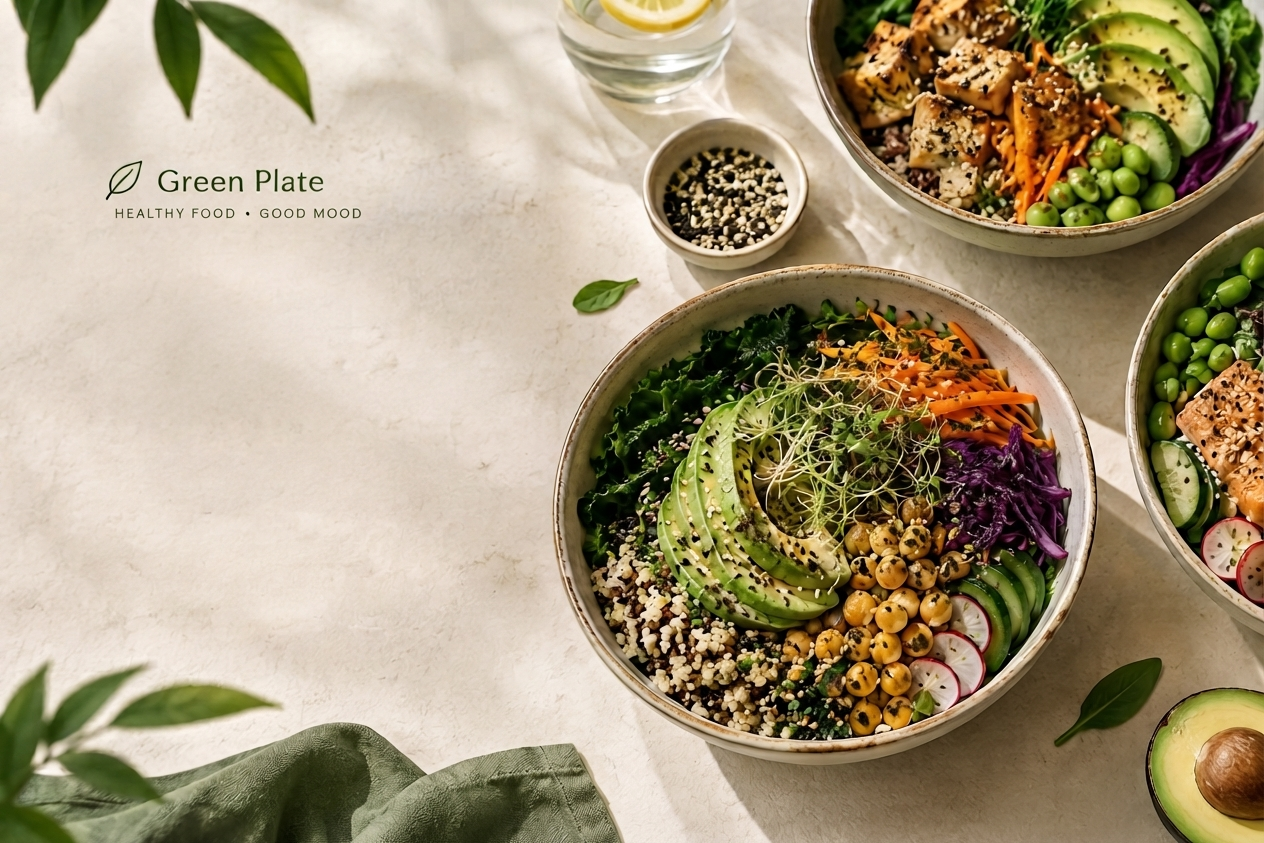
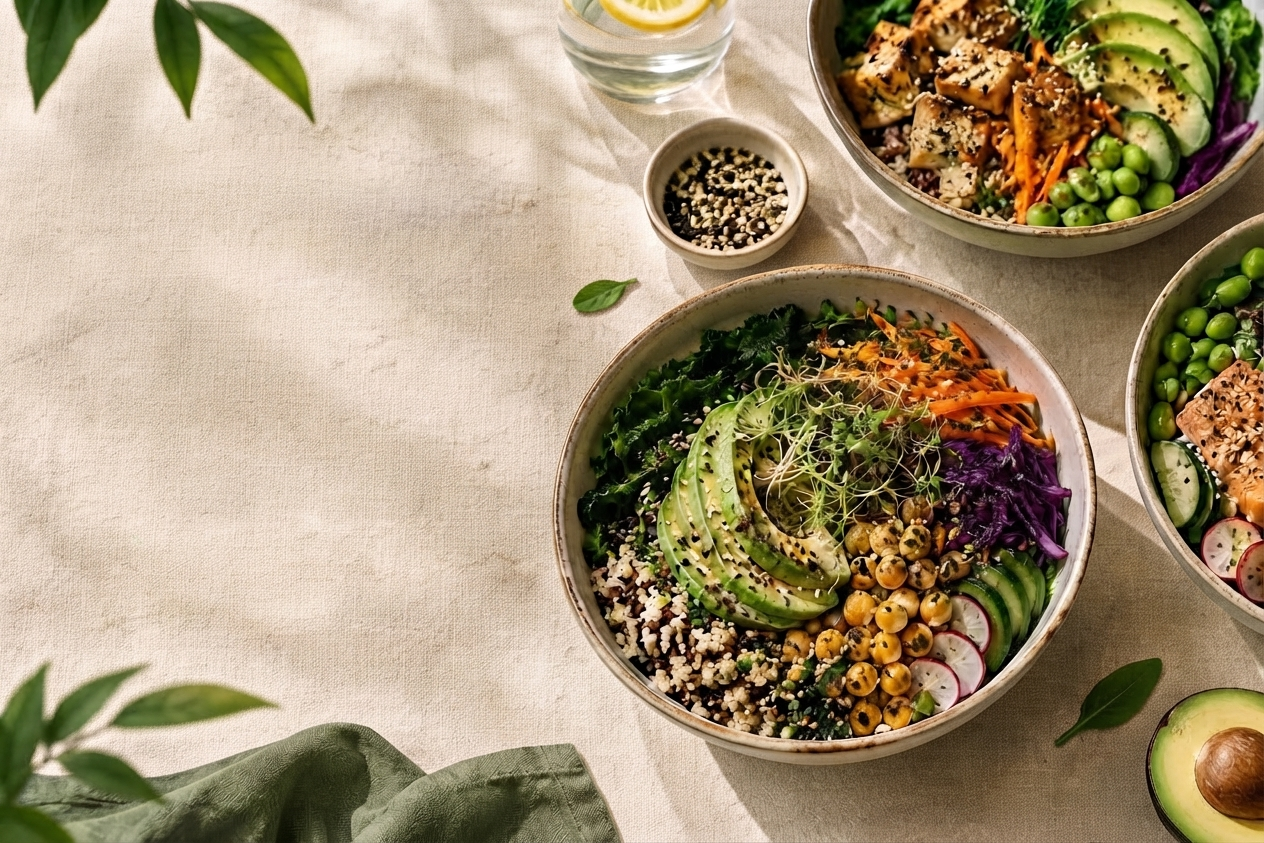
fix: hero section

diff --git a/style.css b/style.css
@@ -322,6 +322,15 @@ header {
   line-height: 1.6;
 }
 
+.hero-text .button_menu {
+  align-self: flex-start;
+  margin-top: 8px;
+}
+
+.hero-br {
+  display: none;
+}
+
 .first {
   position: relative;
   z-index: 0;
@@ -509,6 +518,33 @@ header {
   padding: 72px 0;
 }
 
+.menu_cats {
+  display: flex;
+  justify-content: center;
+  flex-wrap: wrap;
+  gap: 12px;
+  margin-bottom: 36px;
+}
+
+.menu_cat {
+  min-width: 120px;
+  height: 42px;
+  padding: 0 20px;
+  border: none;
+  border-radius: var(--radius);
+  background: var(--mint);
+  color: var(--green);
+  font-weight: 700;
+  font-size: 0.875rem;
+  letter-spacing: 0.06em;
+  cursor: default;
+}
+
+.menu_cat.is-active {
+  background: var(--green);
+  color: var(--mint);
+}
+
 .pagination {
   display: flex;
   align-items: center;
@@ -543,6 +579,11 @@ header {
 
 .pagination_icon--left {
   transform: rotate(180deg);
+}
+
+.pagination--menu {
+  justify-content: center;
+  margin-top: 36px;
 }
 
 .menu {
@@ -936,6 +977,10 @@ header {
     justify-content: space-between;
   }
 
+  .pagination--menu {
+    justify-content: center;
+  }
+
   .pagination .menu {
     flex: 1 1 100%;
     order: -1;
@@ -948,7 +993,7 @@ header {
   }
 
   .hero-container {
-    height: 380px;
+    height: 440px;
     padding: 20px;
   }
 
@@ -959,6 +1004,14 @@ header {
   .hero-text {
     left: 40px;
     max-width: min(420px, calc(100% - 72px));
+  }
+
+  .hero-br {
+    display: block;
+  }
+
+  .hero-text-second {
+    display: none;
   }
 
   .first_container,

diff --git a/Menu.html b/Menu.html
@@ -57,6 +57,11 @@
         <div class="container">
             <h2 class="section_title">OUR MENU</h2>
             <p class="section_subtitle light">Healthy, fresh, and fully transparent —<br>hover for calories.</p>
+            <div class="menu_cats">
+                <button class="menu_cat is-active" type="button">Vegan</button>
+                <button class="menu_cat" type="button">Seafood</button>
+                <button class="menu_cat" type="button">Meat</button>
+            </div>
             <div class="menu">
                 <article class="menu_card">
                     <div class="menu_visual">
@@ -252,6 +257,14 @@
                     </div>
                 </article>
             </div>
+            <div class="pagination pagination--menu">
+                <button class="pagination_btn pagination_prev" type="button" disabled aria-label="Previous">
+                    <img src="img/button-icon-dark.svg" alt="" class="pagination_icon pagination_icon--left">
+                </button>
+                <button class="pagination_btn pagination_next" type="button" disabled aria-label="Next">
+                    <img src="img/button-icon-dark.svg" alt="" class="pagination_icon">
+                </button>
+            </div>
         </div>
     </section>
     <footer class="footer">
@@ -285,4 +298,7 @@
         </div>
     </footer>
 </body>
+<script src="index.js">
+
+</script>
 </html>

diff --git a/index.html b/index.html
@@ -59,11 +59,11 @@
         <div class="hero-container">
             <img class="hero-img" src="img/hero-section.jpeg" alt="GreenPlate hero">
             <div class="hero-text">
-                <span class="hero-first-text">Fuel Your Body with Real Food</span>
+                <span class="hero-first-text">Fuel Your Body with<br class="hero-br"> Real Food</span>
                 <p class="hero-text-second">Discover our signature bowls, packed with crisp, farm-fresh vegetables and
                     wholesome superfoods. We prepare every portion daily to bring you a perfect balance of crunch,
                     flavor, and pure nourishment.</p>
-
+                <a class="button_menu" href="Menu.html">View our menu</a>
             </div>
         </div>
     </section>
@@ -82,7 +82,7 @@
                         soy sauce, sesame seeds
                     </p>
                 </div>
-                <a class="button_menu" href="Menu.html">View our menu</a>
+                <a class="button_menu" href="Menu.html">More</a>
             </div>
             <div class="right">
                 <div class="special_pic">
